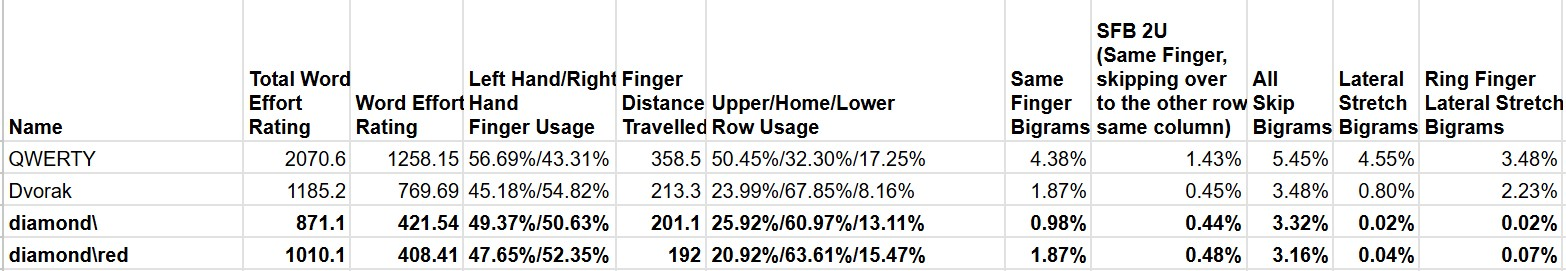
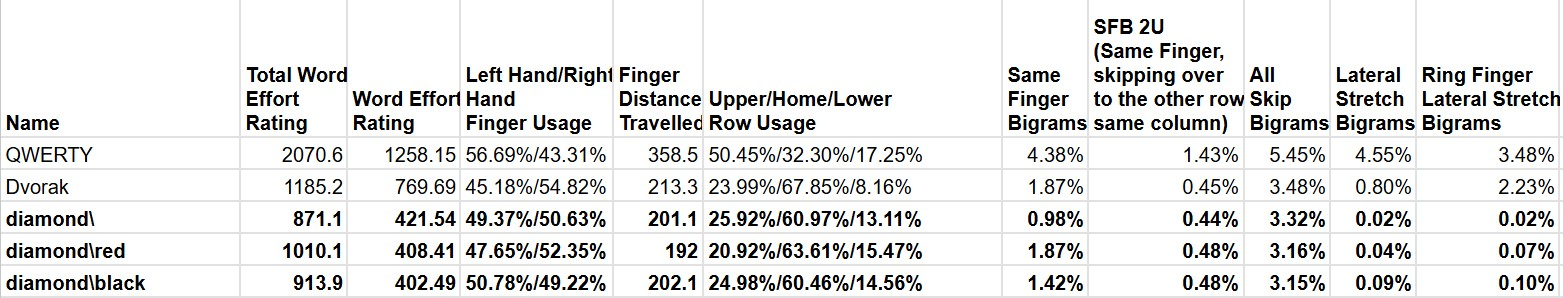
added diamond\black including images and kbd file

diff --git a/README.md b/README.md
@@ -237,9 +237,28 @@ Here is diamond\red
 
 ![image of diamond\\red keyboard layout](https://raw.githubusercontent.com/r134x7/diamond_backslash/refs/heads/main/images/diamond_backslash_red.png)
 
+It is very different to diamond\ as four vowels are placed on the home row left-side and I removed the two letters from the outer column of the right pinky finger to make it easier to use.
+
 The kbd file for diamond\red is inside the proof of concepts folder under diamond_backslash_red
 
-Here are stats comparing diamond\ and diamond\red
+## diamond\black mirroring keyboard layout
+
+I have added a new keyboard layout alongside diamond\ 
+
+Here is diamond\black
+
+![image of diamond\\black keyboard layout](https://raw.githubusercontent.com/r134x7/diamond_backslash/refs/heads/main/images/diamond_backslash_black.png)
+
+It is very similar to diamond\ but takes the diamond backslash pattern from diamond\red to reduce the right finger outer column pinky usage. So if you liked diamond\ but didn't like using your right pinky finger for pressing the X and V keys then I recommend diamond\black.
+
+The kbd file for diamond\black is inside the proof of concepts folder under diamond_backslash_red
+
+## keyboard layout stats for all diamond\ mirroring keyboard layouts on row-staggered keyboards
+
+These are stats only for the row-staggered keyboard layouts.
+
+Part 1
 ![image of diamond\\red keyboard layout stats part 1](https://raw.githubusercontent.com/r134x7/diamond_backslash/refs/heads/main/images/keyboard_stats_6.jpg)
 
+Part 2
 ![image of diamond\\red keyboard layout stats part 2](https://raw.githubusercontent.com/r134x7/diamond_backslash/refs/heads/main/images/keyboard_stats_7.jpg)

diff --git a/proof_of_concepts/diamond_backslash_black/description.md b/proof_of_concepts/diamond_backslash_black/description.md
@@ -1,0 +1,16 @@
+# diamond\black mirroring keyboard layout kbd file
+
+The kanata.kbd file is being used as a proof of concept to demonstrate
+how the diamond\black mirroring keyboard layout works.
+
+More details including bugs are in the kanata.kbd file.
+
+The kanata.kbd file is used with Kanata, see Kanata repo source for how Kanata works: https://github.com/jtroo/kanata
+
+## layout image
+
+![image of diamond\\black keyboard layout](https://raw.githubusercontent.com/r134x7/diamond_backslash/refs/heads/main/images/diamond_backslash_black.png)
+
+## heatmap
+
+![image of diamond\\black keyboard layout heatmap](https://raw.githubusercontent.com/r134x7/diamond_backslash/refs/heads/main/images/diamond_backslash_black_heatmap.jpg)
